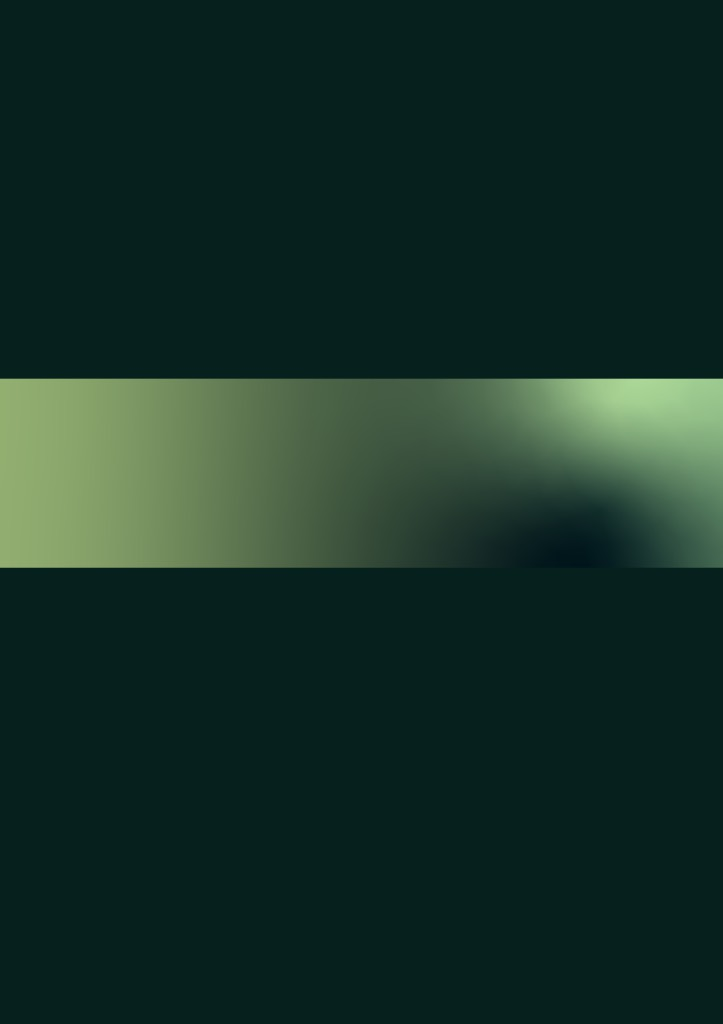
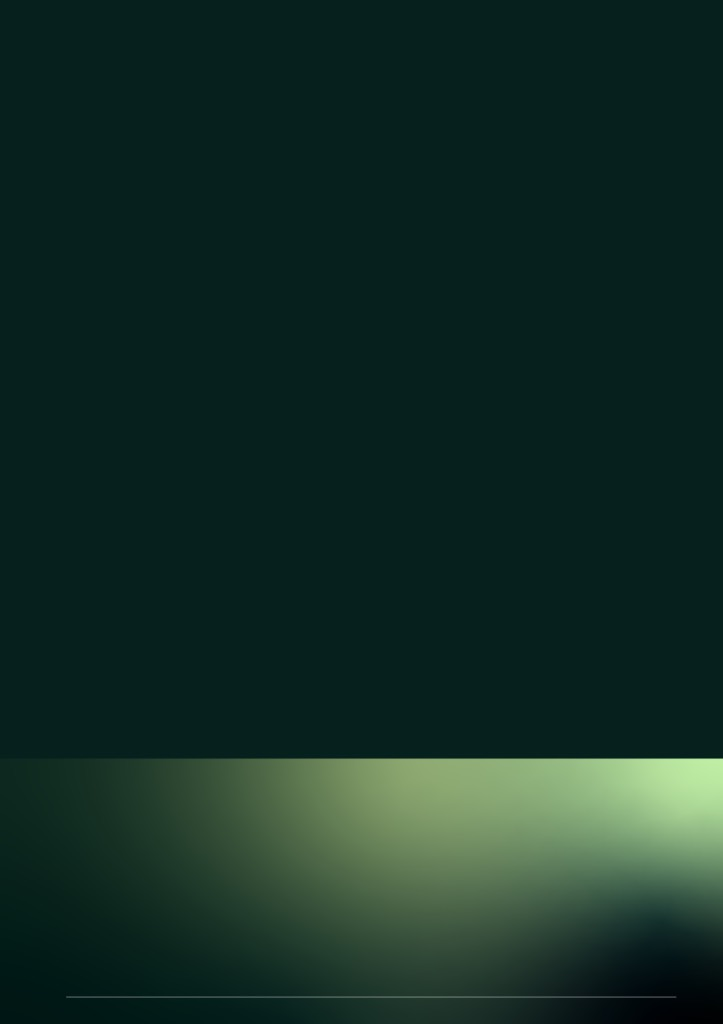
Use cover-front-bg.jpg for front cover background

diff --git a/lib/pdfExport.ts b/lib/pdfExport.ts
@@ -603,7 +603,7 @@ export async function applyPremiumCovers(
   meta?: { company?: string; date?: string; eyebrow?: string; reportId?: string },
 ) {
   const [bg, logo] = await Promise.all([
-    loadImage(type === 'front' ? '/cover-back-bg.jpg' : '/cover-back-gradient.jpg'),
+    loadImage(type === 'front' ? '/cover-front-bg.jpg' : '/cover-back-gradient.jpg'),
     loadSvgAsPngDataUrl('/aivory-logo-cover.svg', 251, 80),
   ])
 